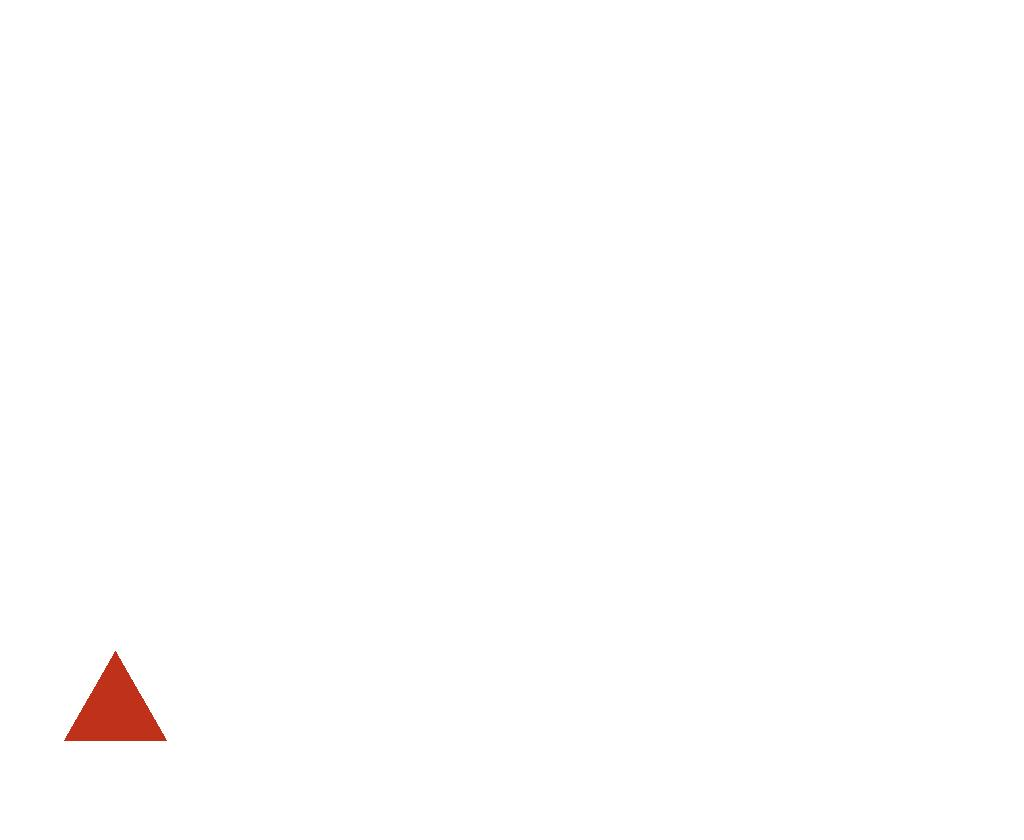
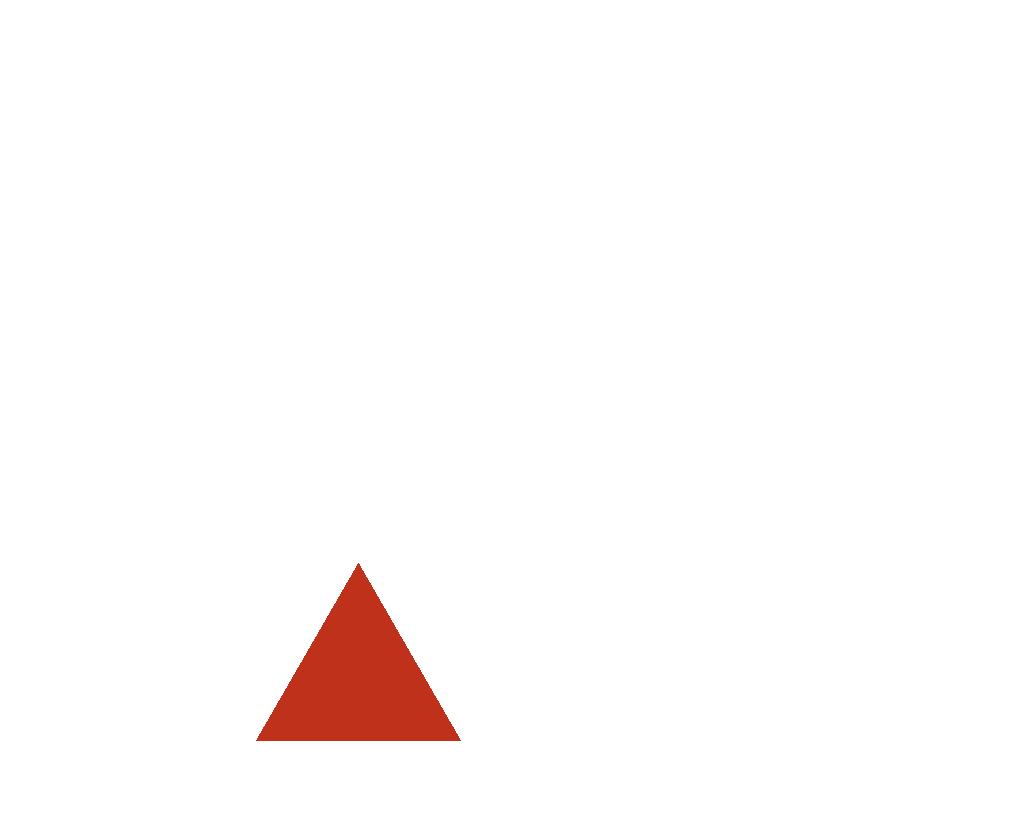
med

Changed region(s): [[0.25, 0.681, 0.4688, 0.8976], [0.0625, 0.7738, 0.1562, 0.8976]]

diff --git a/main.py b/main.py
@@ -18,11 +18,21 @@ class Triangle_coords():
         self.ar = None
         self.error = False
         self.error2 = False
+        self.a_med = None
+        self.b_med = None
+        self.c_med = None
+        self.a_hei = None
+        self.b_hei = None
+        self.c_hei = None
+        self.a_bis = None
+        self.b_bis = None
+        self.c_bis = None
+        self.poluper = None
         
     
-    
     def perimetr(self):
-        self.per = self.ab + self.bc + self.ac
+        self.per = round(self.ab + self.bc + self.ac, 1)
+        self.poluper = self.per / 2
     
 
     def ab_counter(self):
@@ -56,7 +66,24 @@ class Triangle_coords():
 
     def area(self):
         self.ar = round(self.ab * self.ac * math.sin(math.radians(self.alpha)) / 2, 1)
-
+    
+    def medi(self):
+        self.b_med = round(math.sqrt(((2 * (self.ab ** 2)) + (2 * (self.bc ** 2)) - (self.ac ** 2)) / 4), 1)
+        self.a_med = round(math.sqrt((2 * (self.ab ** 2) + (2 * (self.ac ** 2)) - (self.bc ** 2)) / 4), 1)
+        self.c_med = round(math.sqrt((2 * (self.bc ** 2) + (2 * (self.ac ** 2)) - (self.ab ** 2)) / 4), 1)
+    
+    def heig(self):
+        self.a_hei = round(2 * math.sqrt(self.poluper * (self.poluper - self.bc) * (self.poluper - self.ac) * (
+               self.poluper - self.ab)) / self.bc, 1)
+        self.b_hei = round(2 * math.sqrt(self.poluper * (self.poluper - self.bc) * (self.poluper - self.ac) * (
+               self.poluper - self.ab)) / self.ac, 1)
+        self.c_hei = round(2 * math.sqrt(self.poluper * (self.poluper - self.bc) * (self.poluper - self.ac) * (
+               self.poluper - self.ab)) / self.ab, 1)
+    
+    def biss(self):
+        self.a_bis = round(2 * math.sqrt(self.bc * self.ac * self.poluper * (self.poluper - self.ab)) / (self.bc + self.ac), 1)
+        self.b_bis = round(2 * math.sqrt(self.ab * self.ac * self.poluper * (self.poluper - self.bc)) / (self.ab + self.ac), 1)
+        self.c_bis = round(2 * math.sqrt(self.bc * self.ab * self.poluper * (self.poluper - self.ac)) / (self.bc + self.ab), 1)
 
     def count(self):
         if self.error2:
@@ -77,6 +104,9 @@ class Triangle_coords():
                     else:
                         self.perimetr()
                         self.area()
+                        self.biss()
+                        self.medi()
+                        self.heig()
                         self.picture('test.jpg', 500, 500)
                 else:
                     self.error = True
@@ -87,25 +117,24 @@ class Triangle_coords():
         drawer = ImageDraw.Draw(im)
 
         drawer.rectangle(((0, 0), (width, height)), background_color)
-        
-        
         ax, ay = self.a
         bx, by = self.b
         cx, cy = self.c
-        ax = ax % 8 + 1
-        ay = ay % 8 + 1
-        bx = bx % 8 + 1
-        by = by % 8 + 1
-        cx = cx % 8 + 1
-        cy = cy % 8 + 1
-        self.counter = ax // 8 + 1
-        drawer.polygon([(width // 4 + ax * width // 10, height // 2 + int(-1 * (ay * width // 10))),
-                        (width // 4 + bx * width // 10, height // 2 + int(-1 * (by * width // 10))),
-                        (width // 4 + cx * width // 10, height // 2 + int(-1 * (cy * width // 10)))], triangle_color)
+        delx = max([ax, bx, cx]) - min([ax, bx, cx])
+        dely = max([ay, by, cy]) - min([ay, by, cy])
+        ax = ax / max([delx, dely]) * 4
+        ay = ay / max([delx, dely]) * 4
+        bx = bx / max([delx, dely]) * 4
+        by = by / max([delx, dely]) * 4
+        cx = cx / max([delx, dely]) * 4
+        cy = cy / max([delx, dely]) * 4
+        drawer.polygon([(width // 2 + ax * width // 10, height // 2 + int(-1 * (ay * width // 10))),
+                        (width // 2 + bx * width // 10, height // 2 + int(-1 * (by * width // 10))),
+                        (width // 2 + cx * width // 10, height // 2 + int(-1 * (cy * width // 10)))], triangle_color)
 
-        drawer.line((width // 2, 0, width // 2, height), fill=(0, 0, 0), width=5)
-        drawer.line((0, height // 2, width, height // 2), fill=(0, 0, 0), width=5)
-        drawer.line((width // 2 + 2, 0, width // 2 + 5, 5), fill=(0, 0, 0), width=10)
+        # drawer.line((width // 2, 0, width // 2, height), fill=(0, 0, 0), width=5)
+        # drawer.line((0, height // 2, width, height // 2), fill=(0, 0, 0), width=5)
+        # drawer.line((width // 2 + 2, 0, width // 2 + 5, 5), fill=(0, 0, 0), width=10)
         im.save(file_name)
 
     
@@ -113,12 +142,23 @@ class Triangle_elems():
     def __init__(self, a='a', b='b', c='c', 
                        ab = None, bc = None, ac = None,
                        alpha = None, beta = None, gamma = None):
+
         self.ab_name = a.upper() + b.upper()
         self.ac_name = a.upper() + c.upper()
         self.bc_name = b.upper() + c.upper()
         self.alpha_name = '∠' + b.upper() + a.upper() + c.upper()
         self.beta_name = '∠' + a.upper() + b.upper() + c.upper()
         self.gamma_name = '∠' + b.upper() + c.upper() + a.upper()
+        self.a_med_name = a.upper() + 'M1'
+        self.b_med_name = b.upper() + 'M2'
+        self.c_med_name = c.upper() + 'M3'
+        self.a_hei_name = a.upper() + 'H1'
+        self.b_hei_name = b.upper() + 'H2'
+        self.c_hei_name = c.upper() + 'H3'
+        self.a_bis_name = a.upper() + 'B1'
+        self.b_bis_name = b.upper() + 'B2'
+        self.c_bis_name = c.upper() + 'B3'
+
         self.between = False
         self.near = False
         self.side_between = False
@@ -133,6 +173,19 @@ class Triangle_elems():
         self.error = False 
         self.error2 = False
         self.error3 = False
+        self.a_med = None
+        self.b_med = None
+        self.c_med = None
+        self.a_hei = None
+        self.b_hei = None
+        self.c_hei = None
+        self.a_bis = None
+        self.b_bis = None
+        self.c_bis = None
+        self.per = None
+        self.ar = None
+        self.poluper = None
+        
 
         if ab != None and bc != None and ac != None:
             self.ab = ab
@@ -365,6 +418,13 @@ class Triangle_elems():
             if (self.alpha + self.beta + self.gamma != 180) or self.alpha <= 0 or self.beta <= 0 or self.gamma <= 0:
                 self.error2 = True
         
+    def perimetr(self):
+        self.per = round(self.ab + self.bc + self.ac, 1)
+        self.poluper = self.per / 2
+    
+    def area(self):
+        self.ar = round(self.a_hei * self.bc / 2, 1)
+        
     def side_between_func(self, alpha, beta, ab):
         if alpha == 0 or beta == 0:
             self.error2 = True
@@ -427,14 +487,23 @@ class Triangle_elems():
         if (self.alpha + self.beta + self.gamma != 180) or self.alpha <= 0 or self.beta <= 0 or self.gamma <= 0:
             self.error2 = True
     
-    def median_couter(self):
-        pass
+    def medi(self):
+        self.b_med = round(math.sqrt(((2 * (self.ab ** 2)) + (2 * (self.bc ** 2)) - (self.ac ** 2)) / 4), 1)
+        self.a_med = round(math.sqrt((2 * (self.ab ** 2) + (2 * (self.ac ** 2)) - (self.bc ** 2)) / 4), 1)
+        self.c_med = round(math.sqrt((2 * (self.bc ** 2) + (2 * (self.ac ** 2)) - (self.ab ** 2)) / 4), 1)
     
-    def vertical_counter(self):
-        pass
-
-    def bisector(self):
-        pass
+    def heig(self):
+        self.a_hei = round(2 * math.sqrt(self.poluper * (self.poluper - self.bc) * (self.poluper - self.ac) * (
+               self.poluper - self.ab)) / self.bc, 1)
+        self.b_hei = round(2 * math.sqrt(self.poluper * (self.poluper - self.bc) * (self.poluper - self.ac) * (
+               self.poluper - self.ab)) / self.ac, 1)
+        self.c_hei = round(2 * math.sqrt(self.poluper * (self.poluper - self.bc) * (self.poluper - self.ac) * (
+               self.poluper - self.ab)) / self.ab, 1)
+    
+    def biss(self):
+        self.a_bis = round(2 * math.sqrt(self.bc * self.ac * self.poluper * (self.poluper - self.ab)) / (self.bc + self.ac), 1)
+        self.b_bis = round(2 * math.sqrt(self.ab * self.ac * self.poluper * (self.poluper - self.bc)) / (self.ab + self.ac), 1)
+        self.c_bis = round(2 * math.sqrt(self.bc * self.ab * self.poluper * (self.poluper - self.ac)) / (self.bc + self.ab), 1)
 
     def picture(self, file_name, width, height, background_color='#ffffff', triangle_color='#bF311A',):
         im = Image.new("RGB", (width, height))
@@ -443,20 +512,20 @@ class Triangle_elems():
         drawer.rectangle(((0, 0), (width, height)), background_color)
 
         rightangle_alpha = self.gamma
+        ac = self.ac / max([self.ac, self.bc, self.ab])
+        bc = self.ab / max([self.ac, self.bc, self.ab])
         bx = self.bc * math.cos(math.radians(rightangle_alpha))
         ox = bx 
         rightangle_beta = math.degrees(math.asin(ox / self.bc))
-        bc = self.bc % 8 + 1
-        ac = self.ac % 8 + 1
-        self.counter = int((self.bc // 8) + 1)
+        
         # print(self.bc * math.cos(math.radians(self.gamma)))
         # print(rightangle_beta)
         # print(self.bc * math.cos(math.radians(rightangle_beta)))
 
-        drawer.polygon([((width // 16), (height - 100)),
-                        ((width // 16 + ac * (width // 10)), (height - 100)),
-                        ((width // 16 + bc * math.cos(math.radians(rightangle_alpha)) * (width // 10)), 
-                        (height - 100 - bc * math.cos(math.radians(rightangle_beta)) * (width // 10)))], 
+        drawer.polygon([((width // 4), (height - 100)),
+                        ((width // 4 + ac * (width // 5)), (height - 100)),
+                        ((width // 4 + bc * math.cos(math.radians(rightangle_alpha)) * (width // 5)), 
+                        (height - 100 - bc * math.cos(math.radians(rightangle_beta)) * (width // 5)))], 
                         triangle_color)
         im.save(file_name)
         
@@ -518,6 +587,11 @@ class Triangle_elems():
                             self.side_away_func(self.gamma, self.alpha, self.bc)
                         elif self.bc_bool:
                             self.side_away_func(self.alpha, self.beta, self.ab)
+                self.perimetr()
+                self.medi()
+                self.heig()
+                self.biss()
+                self.area()
                     
                 
 

diff --git a/interface.py b/interface.py
@@ -7,7 +7,6 @@ from config import *
 from main import *
 
 
-
 class Hello_window(QMainWindow):
     def __init__(self):
         super().__init__()
@@ -135,7 +134,17 @@ class Sincos_second(QWidget):
         {tangle.beta_name} = {tangle.beta}
         {tangle.alpha_name} = {tangle.alpha}
         {tangle.gamma_name} = {tangle.gamma}
-        Масштаб 1:{tangle.counter}''')
+        Медиана {tangle.a_med_name} = {tangle.a_med}
+        Медиана {tangle.b_med_name} = {tangle.b_med}
+        Медиана {tangle.c_med_name} = {tangle.c_med}
+        Высота {tangle.a_hei_name} = {tangle.a_hei}
+        Высота {tangle.b_hei_name} = {tangle.b_hei}
+        Высота {tangle.c_hei_name} = {tangle.c_hei}
+        Биссектриса {tangle.a_bis_name} = {tangle.a_bis}
+        Биссектриса {tangle.b_bis_name} = {tangle.b_bis}
+        Биссектриса {tangle.c_bis_name} = {tangle.c_bis}
+        Периметр = {tangle.per}
+        Площадь = {tangle.ar}''')
 
                     self.image.setPixmap(pixmap)
                     self.image.setScaledContents(True)
@@ -219,7 +228,15 @@ class SecondForm_for_coords(QWidget):
     ∠BCA = {tangle.gamma}
     Периметр = {tangle.per}
     Площадь = {tangle.ar}
-    Масштаб 1:{tangle.counter}''')
+    Медиана из проведённая из точки А = {tangle.a_med}
+    Медиана из проведённая из точки B = {tangle.b_med}
+    Медиана из проведённая из точки C = {tangle.c_med}
+    Высота проведённая из точки A = {tangle.a_hei}
+    Высота проведённая из точки B = {tangle.b_hei}
+    Высота проведённая из точки C = {tangle.c_hei}
+    Биссектриса проведённая из точки A = {tangle.a_bis}
+    Биссектриса проведённая из точки B = {tangle.b_bis}
+    Биссектриса проведённая из точки C = {tangle.c_bis} ''')
                 self.image.setPixmap(pixmap)
 
 
